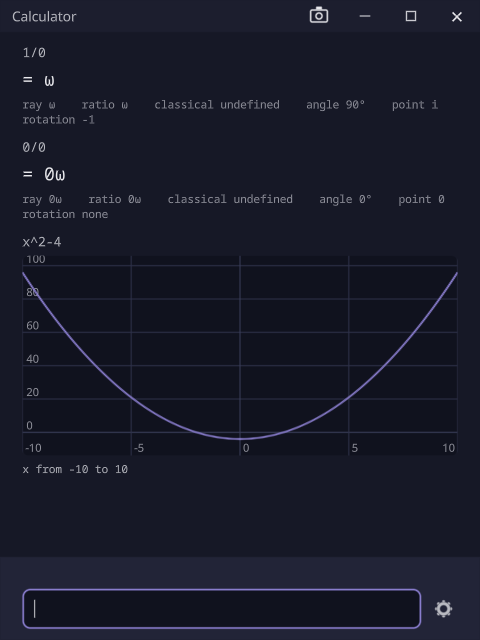
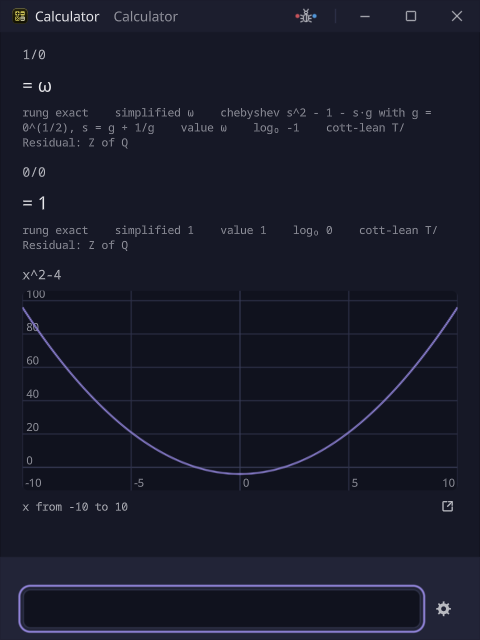
Screenshots of the 0.2.0 applications
Calculator, MainFrame, VexelRay IDE, Rasterware, Vexplore and VexelRay
Inspector, taken from the released binaries with ottermate. The Inspector's
card describes its 0.2 timeline instead of the clockwork it replaced.

diff --git a/vexelray.html b/vexelray.html
@@ -205,11 +205,11 @@
           <div class="app-body"><img src="img/vexplore.png" alt=""><div><h3><a href="https://sibarum.github.io/vexelray-framework/apps/vexplore.html">Vexplore</a></h3><p>A file explorer that suggests instead of asking.</p></div></div>
         </article>
         <article class="app" id="app-text-editor">
-          <div class="shot"><img class="screen" src="img/text-editor-screen.png" alt="VexelRay IDE: Kronometer's Tempo.java open beside its navigator, the project indexed" loading="lazy"></div>
+          <div class="shot"><img class="screen" src="img/text-editor-screen.png" alt="VexelRay IDE: Kronometer's Tempo.java open, and Ctrl+T searching the project's index for tempo" loading="lazy"></div>
           <div class="app-body"><img src="img/text-editor.png" alt=""><div><h3><a href="https://sibarum.github.io/vexelray-framework/apps/text-editor.html">VexelRay IDE</a></h3><p>A tabbed text editor with a file navigator, on the VexelRay stack.</p></div></div>
         </article>
         <article class="app" id="app-pix">
-          <div class="shot"><img class="screen" src="img/pix-screen.png" alt="Rasterware: a picture, and under it the file's name, the filmstrip of its neighbours, and the controls" loading="lazy"></div>
+          <div class="shot"><img class="screen" src="img/pix-screen.png" alt="Rasterware: a Pontif surface plot, and under it the file's name, the filmstrip of its neighbours, and the controls" loading="lazy"></div>
           <div class="app-body"><img src="img/pix.png" alt=""><div><h3><a href="https://sibarum.github.io/vexelray-framework/apps/pix.html">Rasterware</a></h3><p>Pictures, animations and video, with sound. Frames are decoded ahead and streamed to the GPU, so even large video plays smoothly, and the rest of the folder is a key press away.</p></div></div>
         </article>
         <article class="app" id="app-mainframe">
@@ -217,7 +217,7 @@
           <div class="app-body"><img src="img/mainframe.png" alt=""><div><h3><a href="https://sibarum.github.io/vexelray-framework/apps/mainframe.html">MainFrame</a></h3><p>A tabbed terminal around your own shell: PowerShell or cmd over ConPTY on Windows, your login shell on a pseudo-terminal on Linux.</p></div></div>
         </article>
         <article class="app" id="app-calculator">
-          <div class="shot"><img class="screen" src="img/calculator-screen.png" alt="Calculator: two lines answered, each with its readings, and x^2-4 plotted" loading="lazy"></div>
+          <div class="shot"><img class="screen" src="img/calculator-screen.png" alt="Calculator: 1/0 and 0/0 answered, each with its readings, and x^2-4 plotted" loading="lazy"></div>
           <div class="app-body"><img src="img/calculator.png" alt=""><div><h3><a href="https://sibarum.github.io/vexelray-framework/apps/calculator.html">Calculator</a></h3><p>A small calculator window onto cott-engine.</p></div></div>
         </article>
         <article class="app" id="app-maistro">
@@ -225,8 +225,8 @@
           <div class="app-body"><img src="img/maistro.png" alt=""><div><h3><a href="https://github.com/sibarum/vexelray-maistro">Maistro</a> <span class="opt">optional</span></h3><p>A desktop client for Claude Code, on the VexelRay stack: the conversation beside a mind map its replies grow. Needs the Claude Code CLI, logged in.</p></div></div>
         </article>
         <article class="app" id="app-inspector">
-          <div class="shot"><img class="screen" src="img/inspector-screen.png" alt="VexelRay Inspector: the escapement at rest, replaying a calculator session, its park's budget on the plaque" loading="lazy"></div>
-          <div class="app-body"><img src="img/inspector.png" alt=""><div><h3><a href="https://github.com/sibarum/vexelray-inspector">VexelRay Inspector</a> <span class="opt">optional</span></h3><p>DevTools for VexelRay applications, drawn as clockwork: attach to a running app and watch its frame loop beat, park and stall.</p></div></div>
+          <div class="shot"><img class="screen" src="img/inspector-screen.png" alt="VexelRay Inspector attached to MainFrame and paused: three bursts of typing on the timeline, the logic lane ticking on its own thread" loading="lazy"></div>
+          <div class="app-body"><img src="img/inspector.png" alt=""><div><h3><a href="https://github.com/sibarum/vexelray-inspector">VexelRay Inspector</a> <span class="opt">optional</span></h3><p>DevTools for VexelRay applications: attach to a running app and follow every event on a timeline you can pause, rewind and run again.</p></div></div>
         </article>
     </div>
     </div>
